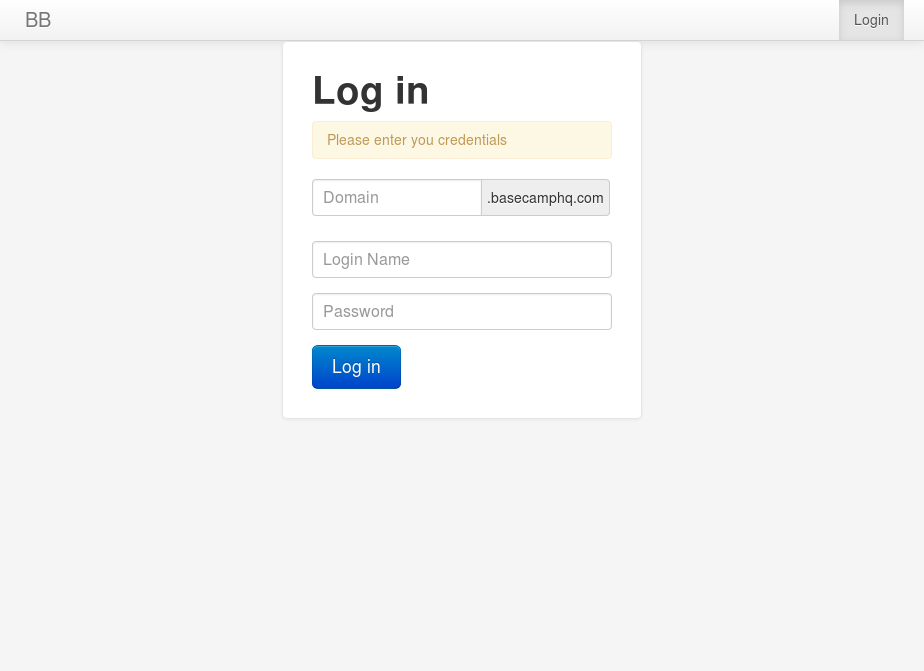
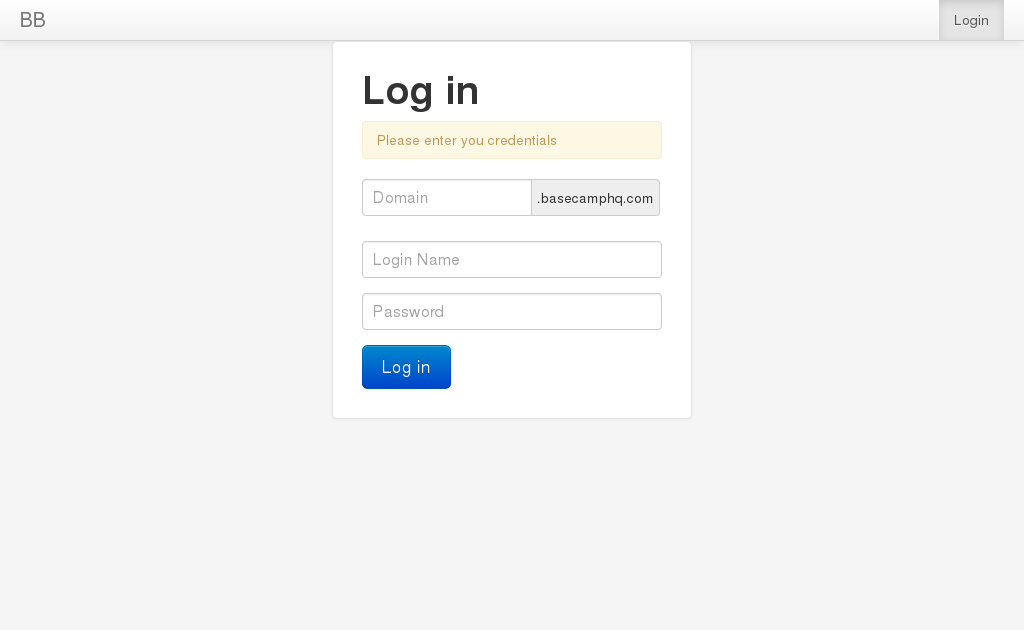
Set Window Size keyword

diff --git a/compare.py b/compare.py
@@ -69,3 +69,15 @@ def report_sauce_status(job_id, test_status, test_tags=[]):
     )
 
     return connection.getresponse().status
+
+def set_window_size(width, height):
+    """Sets the `width` and `height` of the current window to the specified values.
+
+    Example:
+    | Set Window Size | ${800} | ${600} |
+    | ${width} | ${height}= | Get Window Size |
+    | Should Be Equal | ${width} | ${800} |
+    | Should Be Equal | ${height} | ${600} |
+    """
+    driver = BuiltIn().get_library_instance('Selenium2Library')
+    return driver._current_browser().set_window_size(width, height)
